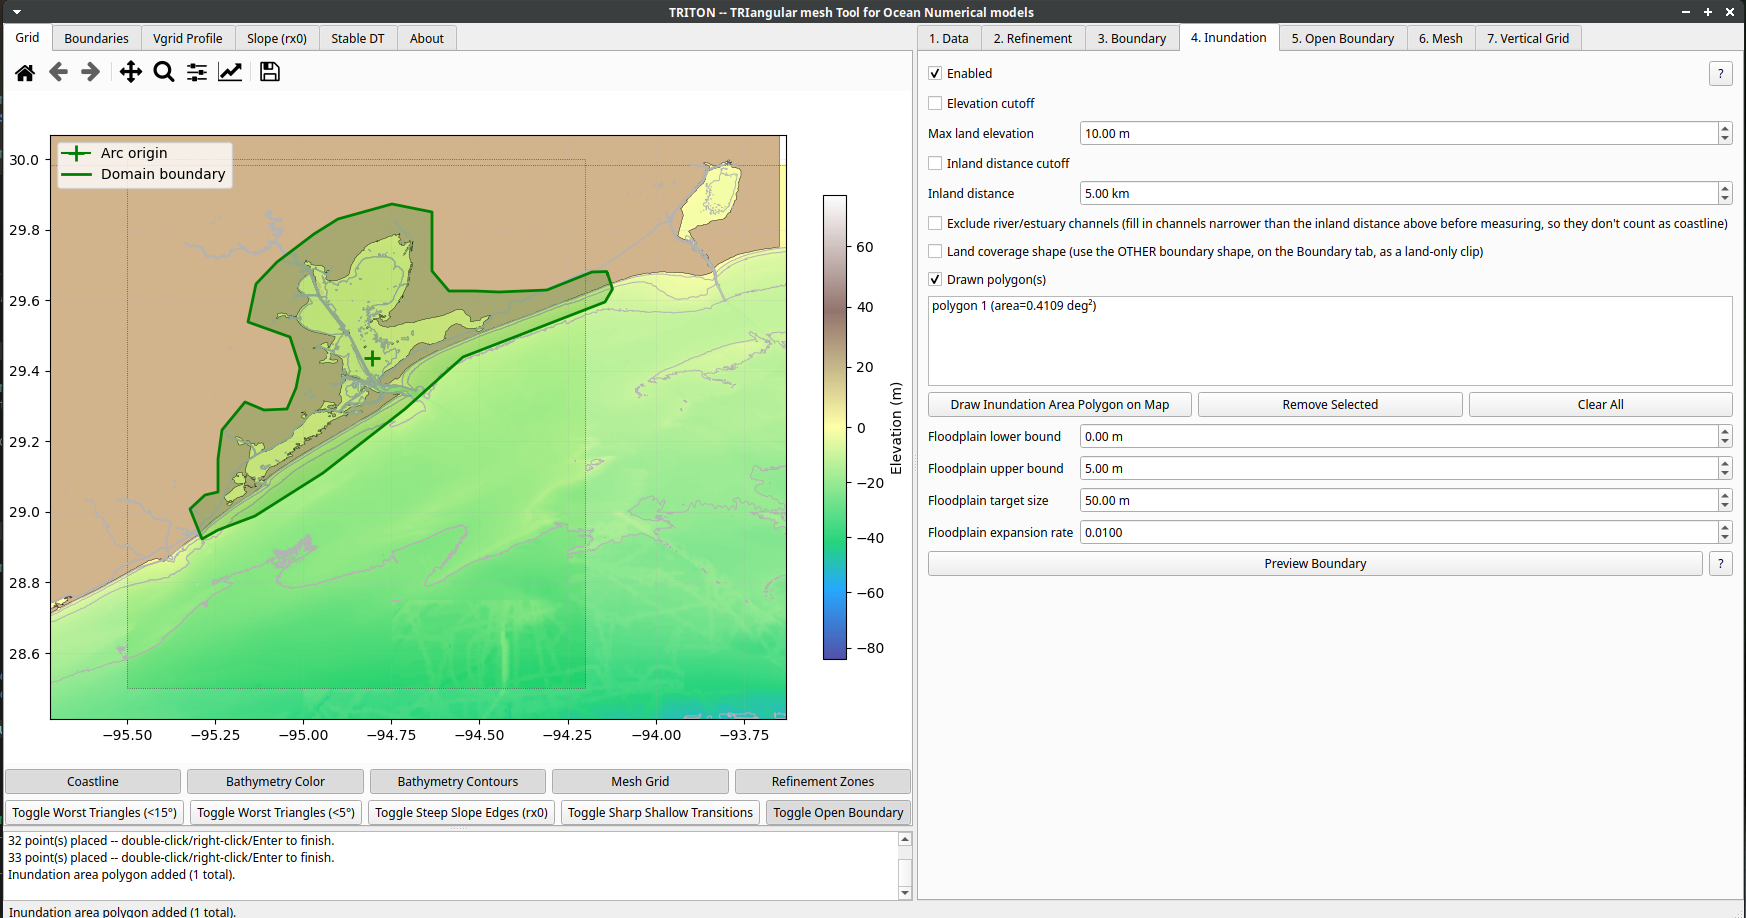
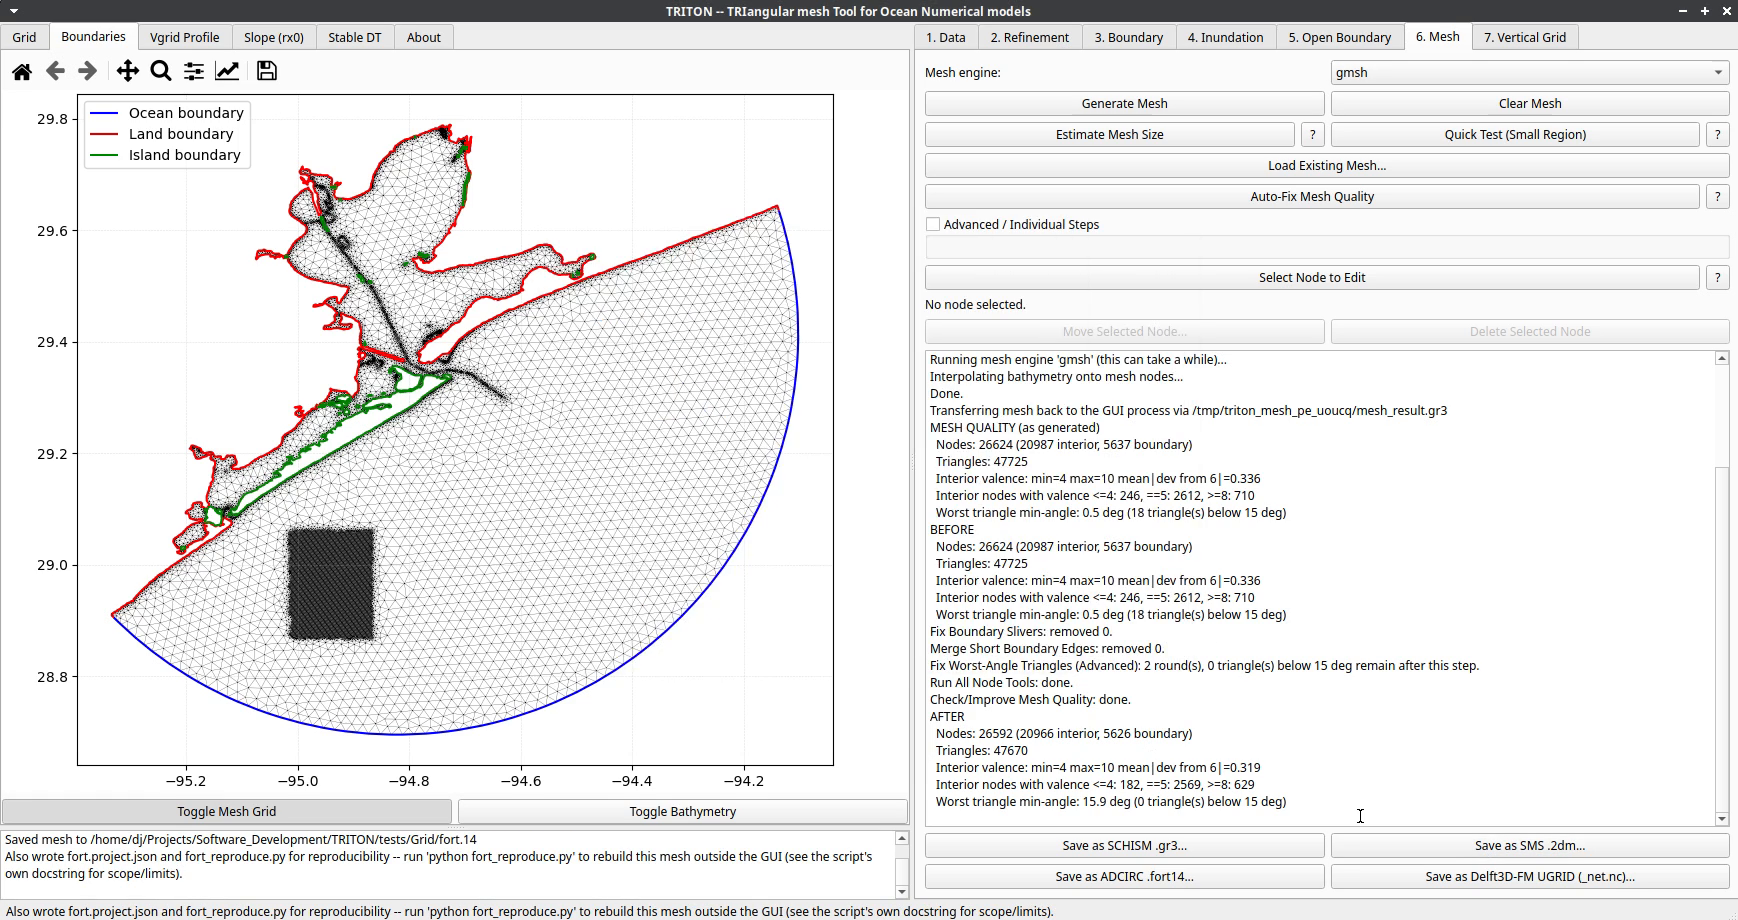
Spell out TRITON acronym and swap in mesh-generation screenshot

diff --git a/README.md b/README.md
@@ -1,6 +1,6 @@
 # TRITON
 
-TRITON is a desktop GUI application for building unstructured triangular meshes for coastal and ocean circulation models. It helps you go from a coastline shapefile and bathymetry raster to a simulation-ready mesh: defining the mesh domain (rectangle/arc open boundaries), refining resolution along channels or over areas of interest, carving out inundation/flooding extents (by elevation, inland distance, or hand-drawn polygons), generating and auto-fixing the triangular mesh, setting up 2D or 3D (SZ) vertical grids, and exporting to multiple model formats (SCHISM `.gr3`, SMS `.2dm`, ADCIRC `.fort14`, Delft3D-FM UGRID `.nc`).
+**TRITON** (**TRI**angular mesh **T**ool for **O**cean **N**umerical models) is a desktop GUI application for building unstructured triangular meshes for coastal and ocean circulation models. It helps you go from a coastline shapefile and bathymetry raster to a simulation-ready mesh: defining the mesh domain (rectangle/arc open boundaries), refining resolution along channels or over areas of interest, carving out inundation/flooding extents (by elevation, inland distance, or hand-drawn polygons), generating and auto-fixing the triangular mesh, setting up 2D or 3D (SZ) vertical grids, and exporting to multiple model formats (SCHISM `.gr3`, SMS `.2dm`, ADCIRC `.fort14`, Delft3D-FM UGRID `.nc`).
 
 ![TRITON](screenshot.png)
 
